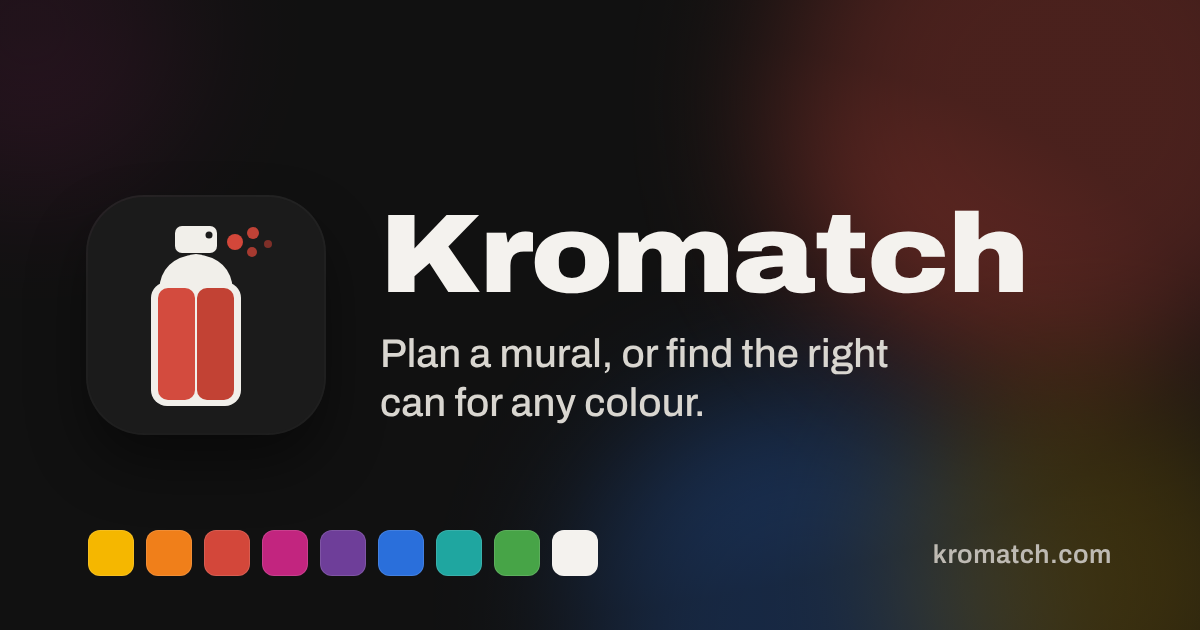
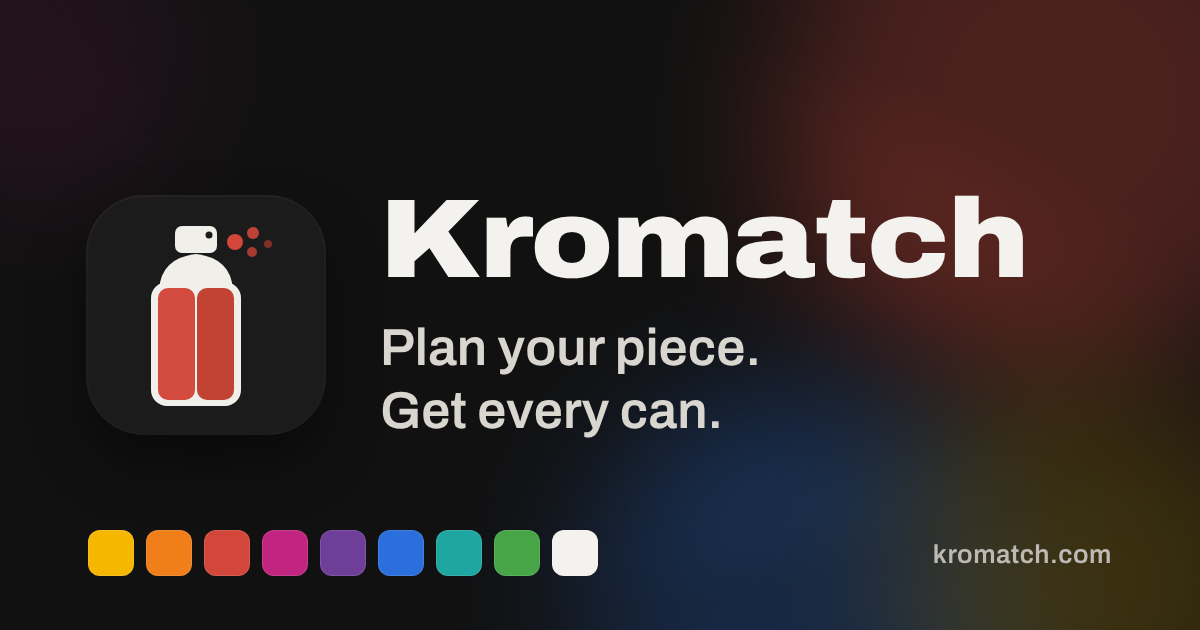
Add files via upload

Changed region(s): [[0.3083, 0.3016, 0.8633, 0.4825], [0.3083, 0.5127, 0.74, 0.6937]]

diff --git a/index.html b/index.html
@@ -5,16 +5,16 @@
 <meta name="robots" content="noindex, nofollow">
 <meta name="viewport" content="width=device-width, initial-scale=1, viewport-fit=cover">
 <title>Kromatch</title>
-<meta name="description" content="Plan a mural, or find the right can for any colour.">
+<meta name="description" content="Plan your piece and get every spray can you need from a shop near you. Upload a mural or graffiti design, or match any single colour from a photo.">
 <!-- Link preview (WhatsApp, Messages, Instagram, Facebook...) -->
 <meta property="og:type" content="website">
 <meta property="og:title" content="Kromatch">
-<meta property="og:description" content="Plan a mural, or find the right can for any colour. Order online or pick up at a shop near you.">
+<meta property="og:description" content="Upload your sketch and get every spray can you need. Order online or pick up at a shop near you.">
 <meta property="og:url" content="https://kromatch.com/">
-<meta property="og:image" content="https://kromatch.com/og-image.png?v=2">
+<meta property="og:image" content="https://kromatch.com/og-image.png?v=3">
 <meta property="og:image:width" content="1200">
 <meta property="og:image:height" content="630">
-<meta property="og:image:alt" content="Kromatch: plan a mural, or find the right can for any colour">
+<meta property="og:image:alt" content="Kromatch: plan your piece, get every can">
 <meta name="twitter:card" content="summary_large_image">
 <!-- Browser tab and home-screen icons -->
 <link rel="icon" type="image/png" sizes="32x32" href="favicon-32.png">
@@ -76,6 +76,8 @@
   .home-card p { margin: 0 0 14px; }
   .home-card .note { margin: 10px 0 0; }
   .home-card label.primary { width: 100%; }
+  .home-one { display: flex; align-items: center; gap: 10px; padding: 4px 18px; color: var(--muted); font-size: 0.95rem; }
+  .home-one .one-link { position: relative; padding: 4px 2px; font-size: 0.95rem; }
   .home-ico { font-size: 1.8rem; line-height: 1; }
   .design-prompt { display: flex; align-items: center; justify-content: space-between; gap: 12px; background: var(--surface);
                    border-radius: 14px; padding: 12px 14px; margin-top: 16px; }
@@ -371,12 +373,11 @@
       <label class="primary"><span data-i18n="uploadDesign"></span><input id="homeDesignFile" type="file" accept="image/png,image/jpeg,image/webp"></label>
       <p class="note" data-i18n="homeDesignNote"></p>
     </div>
-    <div class="home-card">
-      <div class="home-ico" aria-hidden="true">📷</div>
-      <h2 data-i18n="homeMatchTitle"></h2>
-      <p data-i18n="homeMatchDesc"></p>
-      <label class="primary"><span data-i18n="takePhoto"></span><input id="file" type="file" accept="image/*"></label>
-      <p class="note" data-i18n="shootHint"></p>
+    <!-- secondary: matching a single colour -->
+    <div class="home-one" id="homeOne">
+      <span aria-hidden="true">📷</span>
+      <span><span data-i18n="homeOneQ"></span>
+        <label class="link-btn one-link"><span data-i18n="homeOneLink"></span><input id="file" type="file" accept="image/*"></label></span>
     </div>
     <div class="home-card" id="findCard" hidden>
       <div class="home-ico" aria-hidden="true">🔎</div>
@@ -768,9 +769,9 @@
   </div>
 </div>
 
-<script src="colors.js?v=2026-11-20-crop"></script>
-<script src="shops.js?v=2026-11-20-crop"></script>
-<script src="config.js?v=2026-11-20-crop"></script>
+<script src="colors.js?v=2026-11-20-tag"></script>
+<script src="shops.js?v=2026-11-20-tag"></script>
+<script src="config.js?v=2026-11-20-tag"></script>
 <script src="https://cdn.jsdelivr.net/npm/@supabase/supabase-js@2.118.0/dist/umd/supabase.js"></script>
 <script>
 /* ---------- Colour maths ---------- */
@@ -831,6 +832,7 @@ function deltaE2000(lab1, lab2) {
 /* ---------- Text in seven languages ---------- */
 const T = {
   en: {
+    homeOneQ: 'Just need one colour?', homeOneLink: 'Match it from a photo',
     gridStretch: 'Your design is a different shape from the wall ({w} × {h}), so it would come out stretched.', cropFit: 'Crop to fit', cropHint: 'Drag to choose the part of your design that goes on the wall.', cropUse: 'Use this', cropDone: 'Cropped to the wall’s shape.', cropAdjust: 'Adjust', cropUndo: 'Undo',
     surfaceL: 'Surface', sfSmooth: 'Smooth', sfBrick: 'Brick', sfRough: 'Rough concrete', coverageNote2: 'Estimate assumes about {c} m² per can per coat on a smooth wall, plus 10% for overspray. Brick and rough walls take more.', oneLineL: 'Use one paint line for the whole piece', oneLineBest: 'Best line for this design: {line}', gridL: 'Show a grid ({n} squares)', gridNeedsWall: 'Enter the wall size to show a grid.', sharePaintList: 'Share paint list', shareMade: 'Paint list ready.', plWall: 'Wall: {w} × {h} {u} · {surface} · {coats}', plTotal: 'Total', plCans: '{n} cans', plAt: 'Prices at {shop}', plFooter: 'Made with Kromatch · kromatch.com', plTitle: 'Paint list',
     backToMatch: 'Back to your colour match ›',
@@ -854,7 +856,7 @@ const T = {
     viewOrder: 'View order',
     goToCart: 'Go to cart · {n}',
     holdOriginal: 'This is your design painted with the cans below. Touch and hold it to see your original.',
-    taglineMatch: 'Plan a mural, or find the right can for any colour.',
+    taglineMatch: 'Plan your piece. Get every can.',
     allShopsIn: 'All shops in {city}',
     shopLabel: 'Shop',
     addedOne: 'Added 1 can to your cart.',
@@ -988,7 +990,7 @@ const T = {
     otherCityPh: 'Type your city',
     noShops: 'No shops are listed for your city yet.',
     noCity: 'Choose your city in Settings to see shops near you.',
-    tagline: 'Plan a mural, or find the right can for any colour.',
+    tagline: 'Plan your piece. Get every can.',
     takePhoto: 'Take or choose a photo',
     shootHint: 'Shoot in daylight, straight on, without flash.',
     tapHint: 'Touch the colour you want to match. Slide your finger to adjust, then let go.',
@@ -1043,6 +1045,7 @@ const T = {
     locAuto: 'Set from your phone’s time zone'
   },
   el: {
+    homeOneQ: 'Χρειάζεσαι μόνο ένα χρώμα;', homeOneLink: 'Βρες το από φωτογραφία',
     gridStretch: 'Το σχέδιο έχει άλλο σχήμα από τον τοίχο ({w} × {h}), οπότε θα έβγαινε τεντωμένο.', cropFit: 'Κόψ’ το να ταιριάζει', cropHint: 'Σύρε για να διαλέξεις ποιο κομμάτι του σχεδίου μπαίνει στον τοίχο.', cropUse: 'Αυτό', cropDone: 'Κομμένο στο σχήμα του τοίχου.', cropAdjust: 'Αλλαγή', cropUndo: 'Αναίρεση',
     surfaceL: 'Επιφάνεια', sfSmooth: 'Λεία', sfBrick: 'Τούβλο', sfRough: 'Τραχύ μπετό', coverageNote2: 'Η εκτίμηση υποθέτει περίπου {c} m² ανά σπρέι ανά χέρι σε λείο τοίχο, συν 10% για τη διασπορά. Τούβλο και τραχύς τοίχος θέλουν περισσότερο.', oneLineL: 'Μία σειρά χρωμάτων για όλο το έργο', oneLineBest: 'Καλύτερη σειρά για αυτό το σχέδιο: {line}', gridL: 'Πλέγμα (τετράγωνα {n})', gridNeedsWall: 'Γράψε το μέγεθος του τοίχου για να δεις πλέγμα.', sharePaintList: 'Κοινοποίηση λίστας χρωμάτων', shareMade: 'Η λίστα είναι έτοιμη.', plWall: 'Τοίχος: {w} × {h} {u} · {surface} · {coats}', plTotal: 'Σύνολο', plCans: '{n} σπρέι', plAt: 'Τιμές στο {shop}', plFooter: 'Φτιαγμένο με το Kromatch · kromatch.com', plTitle: 'Λίστα χρωμάτων',
     backToMatch: 'Πίσω στην αντιστοίχιση χρώματος ›',
@@ -1066,7 +1069,7 @@ const T = {
     viewOrder: 'Προβολή παραγγελίας',
     goToCart: 'Στο καλάθι · {n}',
     holdOriginal: 'Αυτό είναι το σχέδιό σου με τα σπρέι παρακάτω. Άγγιξε και κράτα για να δεις το αρχικό.',
-    taglineMatch: 'Σχεδίασε μια τοιχογραφία ή βρες το σωστό σπρέι για κάθε χρώμα.',
+    taglineMatch: 'Σχεδίασε το κομμάτι σου. Βρες κάθε σπρέι.',
     allShopsIn: 'Όλα τα καταστήματα ({city})',
     shopLabel: 'Κατάστημα',
     addedOne: 'Προστέθηκε 1 σπρέι στο καλάθι σου.',
@@ -1200,7 +1203,7 @@ const T = {
     otherCityPh: 'Γράψε την πόλη σου',
     noShops: 'Δεν υπάρχουν ακόμα καταστήματα για την πόλη σου.',
     noCity: 'Διάλεξε την πόλη σου στις Ρυθμίσεις για να δεις καταστήματα κοντά σου.',
-    tagline: 'Σχεδίασε μια τοιχογραφία ή βρες το σωστό σπρέι για κάθε χρώμα.',
+    tagline: 'Σχεδίασε το κομμάτι σου. Βρες κάθε σπρέι.',
     takePhoto: 'Τράβηξε ή διάλεξε φωτογραφία',
     shootHint: 'Φωτογράφισε στο φως της ημέρας, κάθετα, χωρίς φλας.',
     tapHint: 'Άγγιξε το χρώμα που θέλεις. Σύρε το δάχτυλο για να το ρυθμίσεις και μετά άφησέ το.',
@@ -1255,6 +1258,7 @@ const T = {
     locAuto: 'Ορίστηκε από τη ζώνη ώρας του κινητού'
   },
   fr: {
+    homeOneQ: 'Juste une couleur ?', homeOneLink: 'Trouvez-la avec une photo',
     gridStretch: 'Votre dessin n’a pas la même forme que le mur ({w} × {h}), il serait donc étiré.', cropFit: 'Recadrer', cropHint: 'Faites glisser pour choisir la partie du dessin qui ira sur le mur.', cropUse: 'Valider', cropDone: 'Recadré à la forme du mur.', cropAdjust: 'Ajuster', cropUndo: 'Annuler',
     surfaceL: 'Surface', sfSmooth: 'Lisse', sfBrick: 'Brique', sfRough: 'Béton brut', coverageNote2: 'Estimation basée sur environ {c} m² par bombe et par couche sur un mur lisse, plus 10 % de perte. La brique et les murs bruts en demandent plus.', oneLineL: 'Une seule gamme pour toute la pièce', oneLineBest: 'Meilleure gamme pour ce dessin : {line}', gridL: 'Afficher une grille (carrés de {n})', gridNeedsWall: 'Indiquez la taille du mur pour afficher une grille.', sharePaintList: 'Partager la liste de peinture', shareMade: 'Liste prête.', plWall: 'Mur : {w} × {h} {u} · {surface} · {coats}', plTotal: 'Total', plCans: '{n} bombes', plAt: 'Prix chez {shop}', plFooter: 'Créé avec Kromatch · kromatch.com', plTitle: 'Liste de peinture',
     backToMatch: 'Revenir à votre correspondance ›',
@@ -1278,7 +1282,7 @@ const T = {
     viewOrder: 'Voir la commande',
     goToCart: 'Voir le panier · {n}',
     holdOriginal: 'Voici votre dessin avec les bombes ci-dessous. Touchez et maintenez pour voir l’original.',
-    taglineMatch: 'Préparez une fresque, ou trouvez la bonne bombe pour chaque couleur.',
+    taglineMatch: 'Préparez votre pièce. Trouvez chaque bombe.',
     allShopsIn: 'Tous les magasins à {city}',
     shopLabel: 'Magasin',
     addedOne: '1 bombe ajoutée au panier.',
@@ -1412,7 +1416,7 @@ const T = {
     otherCityPh: 'Saisissez votre ville',
     noShops: 'Aucun magasin n’est encore référencé pour votre ville.',
     noCity: 'Choisissez votre ville dans Réglages pour voir les magasins proches.',
-    tagline: 'Préparez une fresque, ou trouvez la bonne bombe pour chaque couleur.',
+    tagline: 'Préparez votre pièce. Trouvez chaque bombe.',
     takePhoto: 'Prendre ou choisir une photo',
     shootHint: 'Photographiez à la lumière du jour, bien en face, sans flash.',
     tapHint: 'Touchez la couleur voulue. Glissez le doigt pour ajuster, puis relâchez.',
@@ -1467,6 +1471,7 @@ const T = {
     locAuto: 'Défini d’après le fuseau horaire du téléphone'
   },
   de: {
+    homeOneQ: 'Nur eine Farbe?', homeOneLink: 'Per Foto abgleichen',
     shareDataNote: 'Nur welche Farben abgeglichen und welche Dosen gewählt werden, mit deiner Stadt. Nie Name, E-Mail, Fotos oder Standort. Wird zur Verbesserung von Kromatch genutzt und zusammengefasst mit Farbherstellern geteilt.',
     shareData: 'Anonyme Farbdaten teilen, um Kromatch zu verbessern',
     dataTitle: 'Nutzungsdaten',
@@ -1483,7 +1488,7 @@ const T = {
     viewOrder: 'Bestellung ansehen',
     goToCart: 'Zum Warenkorb · {n}',
     holdOriginal: 'Das ist dein Design mit den Dosen unten. Halte es gedrückt, um das Original zu sehen.',
-    taglineMatch: 'Finde die richtige Dose für jede Farbe.',
+    taglineMatch: 'Plane dein Piece. Finde jede Dose.',
     allShopsIn: 'Alle Shops in {city}',
     shopLabel: 'Shop',
     addedOne: '1 Dose zum Warenkorb hinzugefügt.',
@@ -1617,7 +1622,7 @@ const T = {
     otherCityPh: 'Stadt eingeben',
     noShops: 'Für deine Stadt sind noch keine Shops eingetragen.',
     noCity: 'Wähle in den Einstellungen deine Stadt, um Shops in der Nähe zu sehen.',
-    tagline: 'Finde die richtige Dose für jede Farbe oder plane ein ganzes Wandbild.',
+    tagline: 'Plane dein Piece. Finde jede Dose.',
     takePhoto: 'Foto aufnehmen oder auswählen',
     shootHint: 'Bei Tageslicht, gerade von vorn, ohne Blitz fotografieren.',
     tapHint: 'Berühre die Farbe, die du abgleichen willst. Zum Anpassen den Finger schieben, dann loslassen.',
@@ -1672,6 +1677,7 @@ const T = {
     locAuto: 'Aus der Zeitzone deines Handys übernommen'
   },
   es: {
+    homeOneQ: '¿Solo necesitas un color?', homeOneLink: 'Encuéntralo con una foto',
     shareDataNote: 'Solo qué colores se buscan y qué sprays se eligen, con tu ciudad. Nunca tu nombre, correo, fotos ni ubicación. Se usa para mejorar Kromatch y, de forma agregada, se comparte con fabricantes de pintura.',
     shareData: 'Compartir datos de color anónimos para mejorar Kromatch',
     dataTitle: 'Datos de uso',
@@ -1688,7 +1694,7 @@ const T = {
     viewOrder: 'Ver pedido',
     goToCart: 'Ir al carrito · {n}',
     holdOriginal: 'Este es tu diseño pintado con los sprays de abajo. Mantén pulsado para ver el original.',
-    taglineMatch: 'Encuentra el spray adecuado para cada color.',
+    taglineMatch: 'Planea tu pieza. Encuentra cada spray.',
     allShopsIn: 'Todas las tiendas de {city}',
     shopLabel: 'Tienda',
     addedOne: 'Se añadió 1 spray al carrito.',
@@ -1822,7 +1828,7 @@ const T = {
     otherCityPh: 'Escribe tu ciudad',
     noShops: 'Todavía no hay tiendas para tu ciudad.',
     noCity: 'Elige tu ciudad en Ajustes para ver tiendas cerca de ti.',
-    tagline: 'Encuentra el spray adecuado para cada color o planifica un mural entero.',
+    tagline: 'Planea tu pieza. Encuentra cada spray.',
     takePhoto: 'Haz o elige una foto',
     shootHint: 'Con luz de día, de frente y sin flash.',
     tapHint: 'Toca el color que quieres encontrar. Desliza el dedo para ajustar y luego suelta.',
@@ -1877,6 +1883,7 @@ const T = {
     locAuto: 'Según la zona horaria de tu móvil'
   },
   it: {
+    homeOneQ: 'Ti serve solo un colore?', homeOneLink: 'Trovalo da una foto',
     shareDataNote: 'Solo quali colori vengono abbinati e quali bombolette scelte, con la tua città. Mai nome, email, foto o posizione. Usati per migliorare Kromatch e, in forma aggregata, condivisi con i produttori di vernici.',
     shareData: 'Condividi dati anonimi sui colori per migliorare Kromatch',
     dataTitle: 'Dati di utilizzo',
@@ -1893,7 +1900,7 @@ const T = {
     viewOrder: 'Vedi ordine',
     goToCart: 'Vai al carrello · {n}',
     holdOriginal: 'Questo è il tuo progetto con le bombolette qui sotto. Tieni premuto per vedere l’originale.',
-    taglineMatch: 'Trova la bomboletta giusta per ogni colore.',
+    taglineMatch: 'Progetta il tuo pezzo. Trova ogni bomboletta.',
     allShopsIn: 'Tutti i negozi a {city}',
     shopLabel: 'Negozio',
     addedOne: '1 bomboletta aggiunta al carrello.',
@@ -2027,7 +2034,7 @@ const T = {
     otherCityPh: 'Scrivi la tua città',
     noShops: 'Non ci sono ancora negozi per la tua città.',
     noCity: 'Scegli la tua città nelle Impostazioni per vedere i negozi vicini.',
-    tagline: 'Trova la bomboletta giusta per ogni colore o pianifica un intero murale.',
+    tagline: 'Progetta il tuo pezzo. Trova ogni bomboletta.',
     takePhoto: 'Scatta o scegli una foto',
     shootHint: 'Alla luce del giorno, di fronte, senza flash.',
     tapHint: 'Tocca il colore da abbinare. Scorri il dito per regolare, poi rilascia.',
@@ -2082,6 +2089,7 @@ const T = {
     locAuto: 'Impostata dal fuso orario del telefono'
   },
   pt: {
+    homeOneQ: 'Só precisas de uma cor?', homeOneLink: 'Encontra-a com uma foto',
     shareDataNote: 'Apenas quais cores são buscadas e quais sprays são escolhidos, com sua cidade. Nunca seu nome, e-mail, fotos ou localização. Usado para melhorar o Kromatch e, de forma agregada, compartilhado com fabricantes de tinta.',
     shareData: 'Compartilhar dados de cores anônimos para melhorar o Kromatch',
     dataTitle: 'Dados de uso',
@@ -2098,7 +2106,7 @@ const T = {
     viewOrder: 'Ver pedido',
     goToCart: 'Ir ao carrinho · {n}',
     holdOriginal: 'Este é o seu projeto pintado com os sprays abaixo. Toque e segure para ver o original.',
-    taglineMatch: 'Encontre o spray certo para cada cor.',
+    taglineMatch: 'Planeje sua peça. Encontre cada spray.',
     allShopsIn: 'Todas as lojas em {city}',
     shopLabel: 'Loja',
     addedOne: '1 spray adicionado ao carrinho.',
@@ -2232,7 +2240,7 @@ const T = {
     otherCityPh: 'Digite sua cidade',
     noShops: 'Ainda não há lojas para a sua cidade.',
     noCity: 'Escolha sua cidade nos Ajustes para ver lojas perto de você.',
-    tagline: 'Encontre o spray certo para cada cor ou planeje um mural inteiro.',
+    tagline: 'Planeje sua peça. Encontre cada spray.',
     takePhoto: 'Tire ou escolha uma foto',
     shootHint: 'Com luz do dia, de frente e sem flash.',
     tapHint: 'Toque na cor que quer encontrar. Deslize o dedo para ajustar e solte.',
